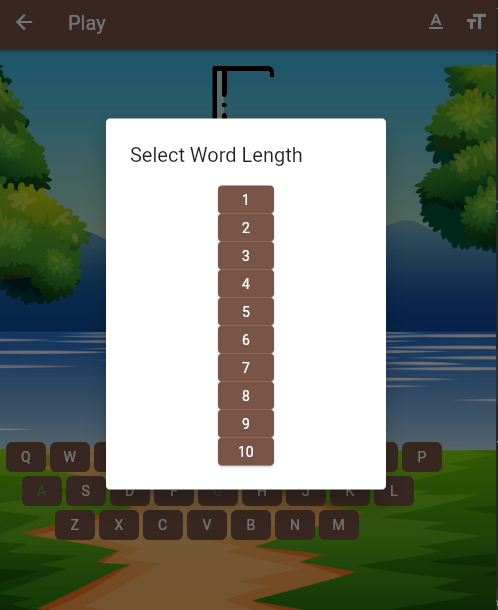
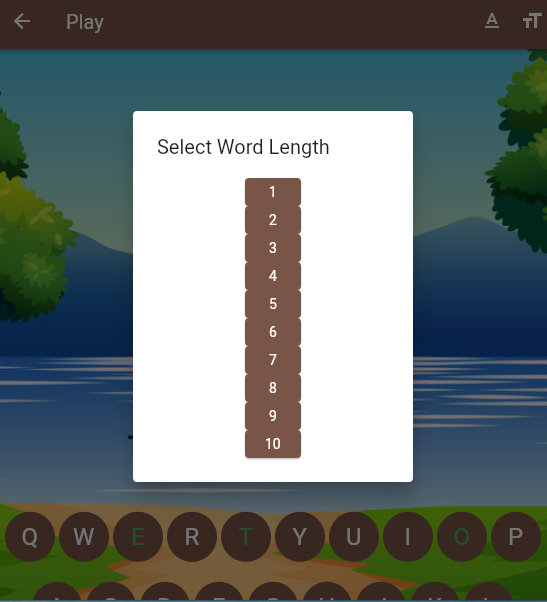
HANGMAN GAME

diff --git a/Final/hm/lib/play.dart b/Final/hm/lib/play.dart
@@ -53,55 +53,47 @@ class _PlayState extends State<Play> {
           ),
         ],
       ),
-      body: Stack(
-        children: [
-          Container(
-            decoration: BoxDecoration(
-              image: DecorationImage(
-                image: AssetImage('images/dd.png'),
-                fit: BoxFit.cover,
-              ),
+      body: SingleChildScrollView( // Added SingleChildScrollView to enable scrolling
+        child: Container(
+          decoration: BoxDecoration(
+            image: DecorationImage(
+              image: AssetImage('images/dd.png'),
+              fit: BoxFit.cover,
             ),
           ),
-          Padding(
-            padding: const EdgeInsets.all(8.0),
-            child: Container(
-              width: MediaQuery.of(context).size.width,
-              child: Column(
-                mainAxisAlignment: MainAxisAlignment.spaceBetween,
-                crossAxisAlignment: CrossAxisAlignment.center,
+          padding: const EdgeInsets.all(8.0),
+          child: Column(
+            mainAxisAlignment: MainAxisAlignment.spaceBetween,
+            crossAxisAlignment: CrossAxisAlignment.center,
+            children: <Widget>[
+              SizedBox(
+                height: MediaQuery.of(context).size.height * 0.4,
+              ),
+              Row(
+                mainAxisAlignment: MainAxisAlignment.center,
                 children: <Widget>[
-                  Row(
-                    children: <Widget>[
-                      SizedBox(
-                        width: (game.wrongLettersGuessed.length == 6)
-                            ? ((MediaQuery.of(context).size.width / 2) - 84.5)
-                            : ((MediaQuery.of(context).size.width / 2) - 78),
-                      ),
-                      Padding(
-                        padding: const EdgeInsets.all(8.0),
-                        child: Image.asset(
-                          'images/hangman' +
-                              game.wrongLettersGuessed.length.toString() +
-                              '.png',
-                          height: 120,
-                        ),
-                      ),
-                    ],
-                  ),
-                  Text(
-                    isLowerCase ? game.displayWord.toLowerCase() : game.displayWord.toUpperCase(),
-                    style: TextStyle(fontSize: 48),
-                  ),
-                  Padding(
-                    padding: const EdgeInsets.only(bottom: 64.0),
-                    child: _getKeyPad(),
+                  Image.asset(
+                    'images/hangman' +
+                        game.wrongLettersGuessed.length.toString() +
+                        '.png',
+                    height: 120,
                   ),
                 ],
               ),
-            ),
+              SizedBox(
+                height: 16.0,
+              ),
+              Text(
+                isLowerCase ? game.displayWord.toLowerCase() : game.displayWord.toUpperCase(),
+                style: TextStyle(fontSize: 48),
+              ),
+              SizedBox(
+                height: 64.0,
+              ),
+              _getKeyPad(),
+            ],
           ),
-        ],
+        ),
       ),
     );
   }
@@ -119,14 +111,14 @@ class _PlayState extends State<Play> {
     return Column(
       children: <Widget>[
         _getRow(0, letters),
-        Padding(
-          padding: const EdgeInsets.symmetric(horizontal: 16.0),
-          child: _getRow(1, letters),
+        SizedBox(
+          height: 16.0,
         ),
-        Padding(
-          padding: const EdgeInsets.symmetric(horizontal: 49.0),
-          child: _getRow(2, letters),
+        _getRow(1, letters),
+        SizedBox(
+          height: 16.0,
         ),
+        _getRow(2, letters),
       ],
     );
   }
@@ -137,6 +129,7 @@ class _PlayState extends State<Play> {
       row.add(_getLetterButton(letters[rowIndex][i]));
     }
     return Row(
+      mainAxisAlignment: MainAxisAlignment.center,
       children: row,
     );
   }
@@ -148,17 +141,18 @@ class _PlayState extends State<Play> {
         builder: (BuildContext context) {
           return GestureDetector(
             child: Container(
-              width: MediaQuery.of(context).size.width / 12.5,
-              height: 30,
+              width: 50,
+              height: 50,
               alignment: Alignment.center,
               child: Text(
                 letter,
                 style: TextStyle(
                   color: _getLetterColor(letter),
+                  fontSize: 24,
                 ),
               ),
               decoration: BoxDecoration(
-                borderRadius: BorderRadius.all(Radius.circular(6)),
+                shape: BoxShape.circle,
                 color: Colors.brown,
               ),
             ),
@@ -297,7 +291,15 @@ class _PlayState extends State<Play> {
       builder: (BuildContext context) {
         return AlertDialog(
           title: Text("Words with Length $length"),
-          content: Text(wordList),
+          content: SingleChildScrollView(
+            child: Container(
+              width: MediaQuery.of(context).size.width,
+              child: Text(
+                wordList,
+                textAlign: TextAlign.left,
+              ),
+            ),
+          ),
           actions: [
             ElevatedButton(
               onPressed: () {
